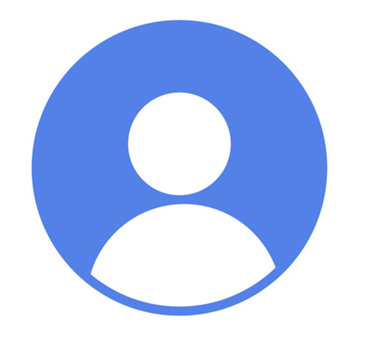
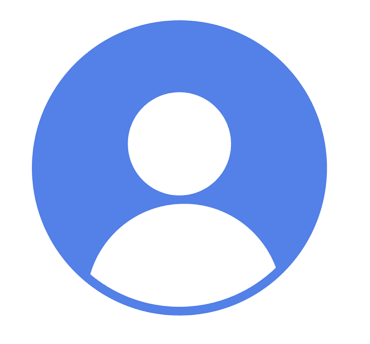
cambio imagen defecto perfiles
CAMBIOS EN APP.CSS ->LINEA 304

diff --git a/public/css/style.css b/public/css/style.css
@@ -4,7 +4,9 @@
     text-align: center;
     margin-bottom: 10%;
 }
-
+img [id="logout"]{ 
+    width: 1%;
+}
 .signup-form,
 .reset-form {
     border-radius: 3px;
@@ -105,6 +107,8 @@ body {
 #wrapper.toggled #sidebar-wrapper {
     margin-left: 0;
 }
+
+
 
 @media (min-width: 768px) {
     #sidebar-wrapper {

diff --git a/public/css/app.css b/public/css/app.css
@@ -301,7 +301,9 @@ figure {
 img,
 svg {
   vertical-align: middle;
+  width: 50px;
 }
+
 
 table {
   caption-side: bottom;

diff --git a/resources/views/layouts/sidehead.blade.php b/resources/views/layouts/sidehead.blade.php
@@ -29,7 +29,7 @@
             <li class="nav-item dropdown">
                 <a id="navbarDropdown" class="nav-link dropdown-toggle" href="#" role="button" data-bs-toggle="dropdown" aria-haspopup="true" aria-expanded="false" v-pre>
                     <div class="photo">
-                        <img src="/imagen/{{ Auth::user()->image }} " width="10%">
+                        <img src="/imagen/{{ Auth::user()->image }}" id="logout" >
                     </div>
 
                 </a>
